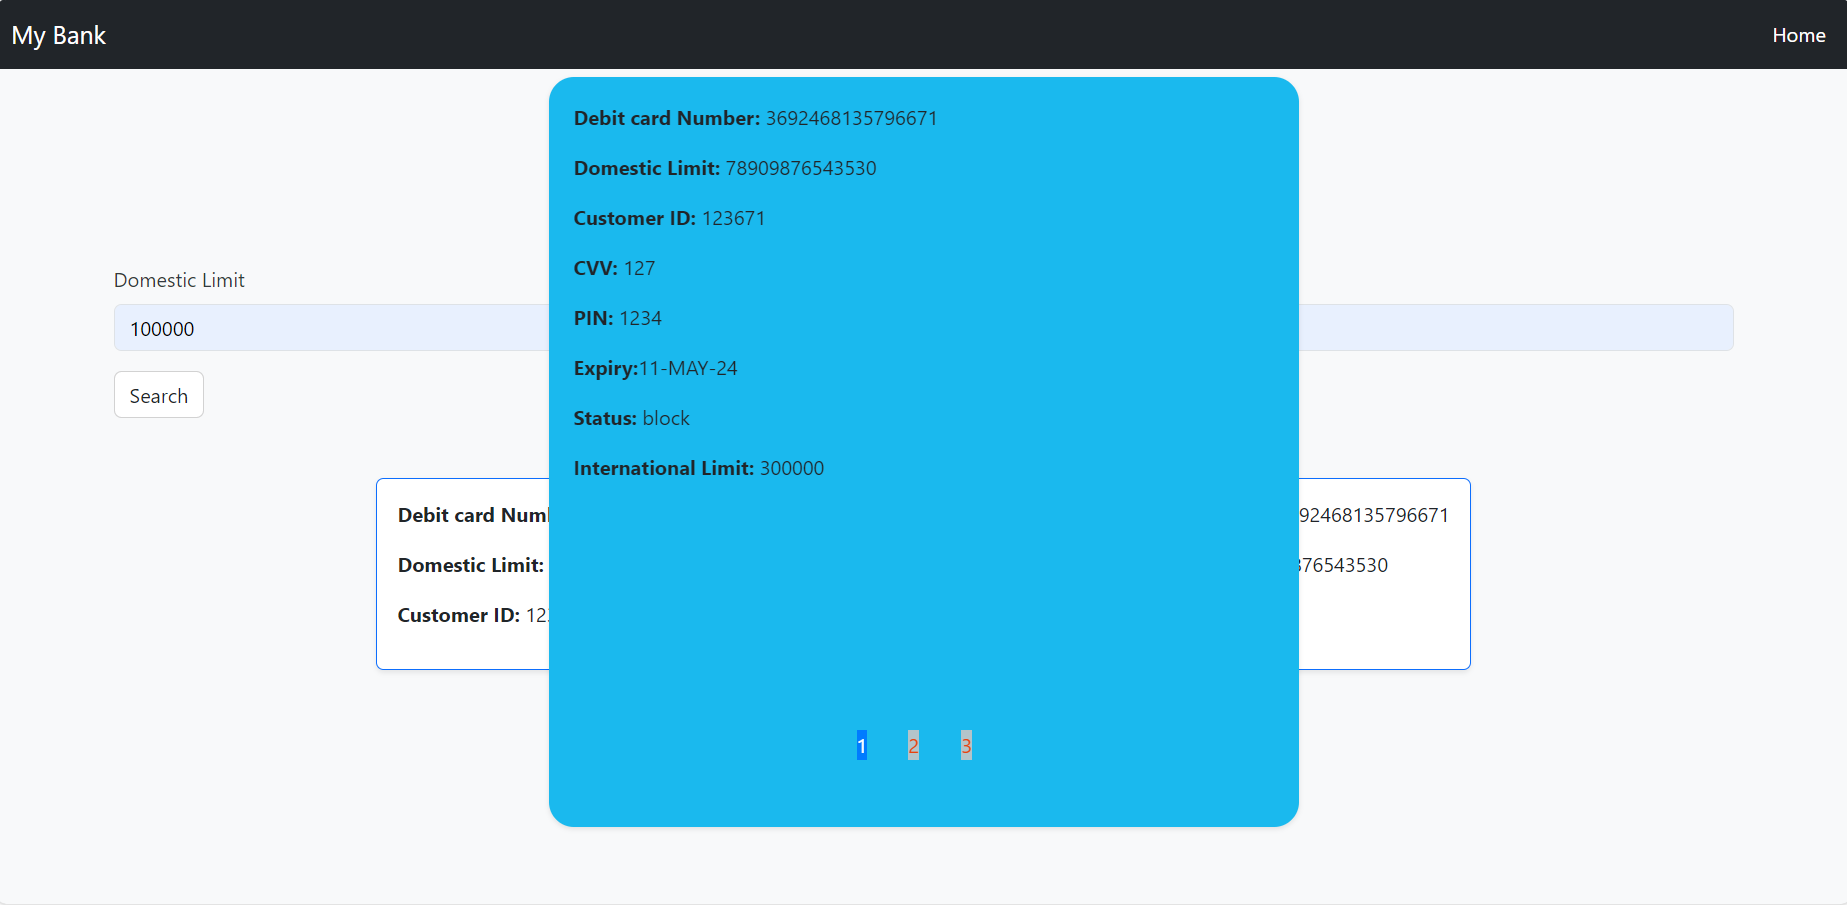
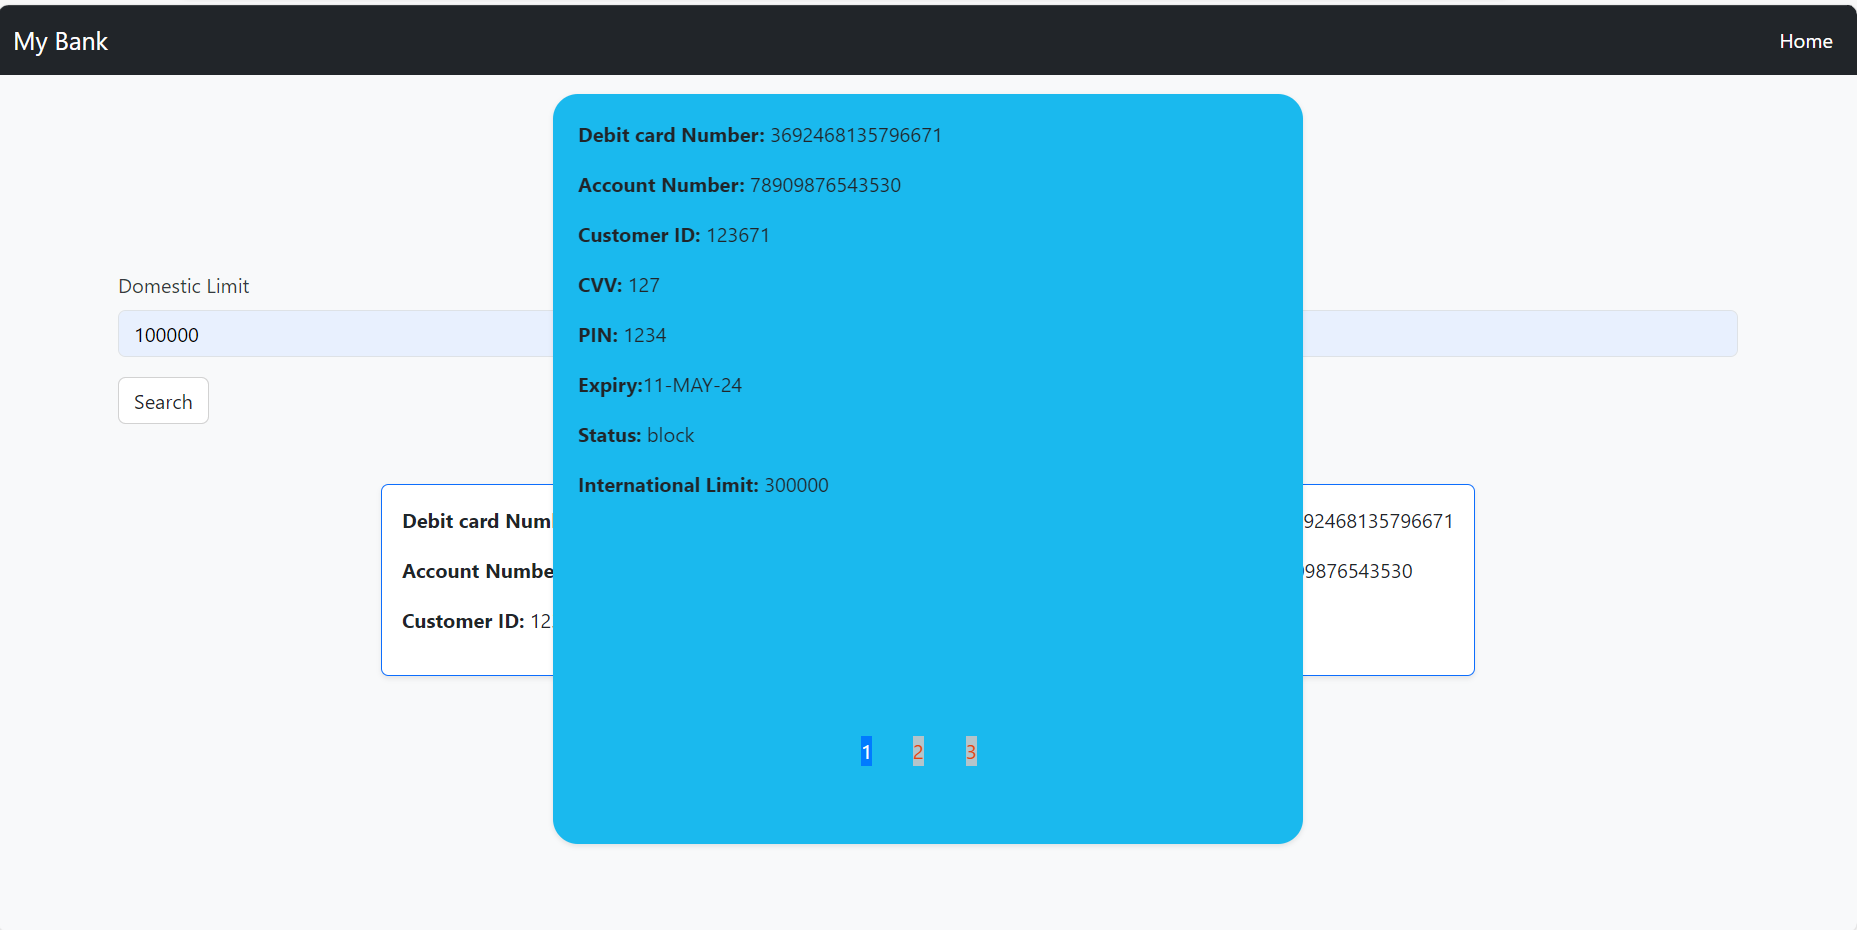
updated task pagination

diff --git a/DLTE-FrontEnd/DLTE-FrontEnd-Tasks/DLTE-FrontEnd-Task-1509/files/cards.js b/DLTE-FrontEnd/DLTE-FrontEnd-Tasks/DLTE-FrontEnd-Task-1509/files/cards.js
@@ -129,11 +129,11 @@ function searchCards() {
                 <div class="card border-primary p-6 mx-auto text-no-wrap justify-content-center shadow-sm">
                     <div class="card-body">
                         <p><strong>Debit card Number:</strong> ${card.debitCardNumber}</p>
-                        <p><strong>Domestic Limit:</strong> ${card.accountNumber}</p>
+                        <p><strong>Account Number:</strong> ${card.accountNumber}</p>
                         <p><strong>Customer ID:</strong> ${card.customerId}</p>
                         <div class="card-details">
                             <p><strong>Debit card Number:</strong> ${card.debitCardNumber}</p>
-                            <p><strong>Domestic Limit:</strong> ${card.accountNumber}</p>
+                            <p><strong>Account Number:</strong> ${card.accountNumber}</p>
                             <p><strong>Customer ID:</strong> ${card.customerId}</p>
                             <p><strong>CVV:</strong> ${card.debitCardCvv}</p>
                             <p><strong>PIN:</strong> ${card.debitCardPin}</p>
